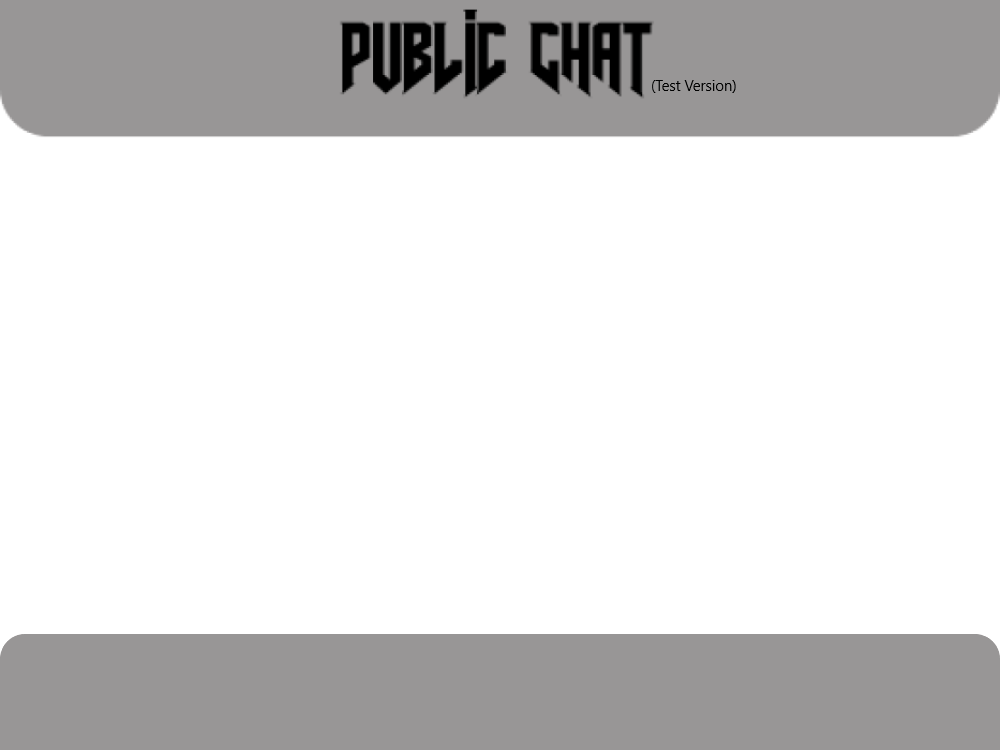
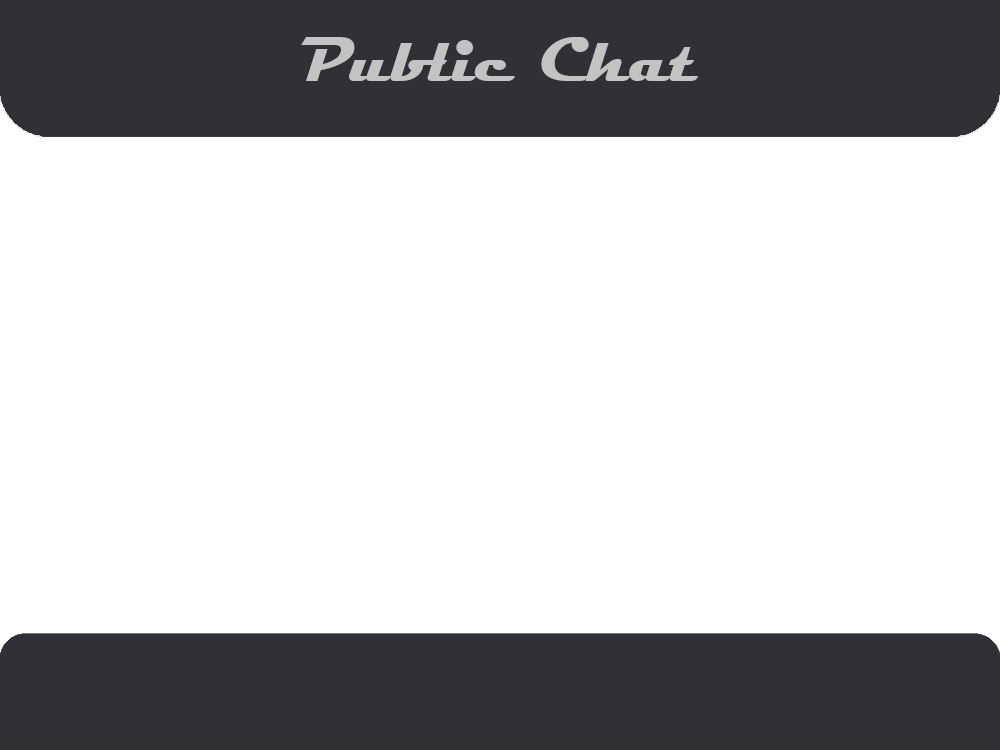
Added new UI

diff --git a/Project AME Frontend/src/main/UI.java b/Project AME Frontend/src/main/UI.java
@@ -1,5 +1,6 @@
 package main;
 
+import java.awt.Color;
 import java.awt.TextField;
 import java.awt.event.ActionEvent;
 import java.awt.event.ActionListener;
@@ -28,11 +29,11 @@ public class UI implements KeyListener{
 	TextField namefield = new TextField(name);
 	JLabel namepls = new JLabel(new ImageIcon("namepls.png"));
 	
-	JLabel settingslabel = new JLabel(new ImageIcon("settings.png"));
+	//JLabel sendlabel = new JLabel(new ImageIcon("submittexture.png"));
 	
-	JButton send = new JButton("Send");
-	JButton submit = new JButton("Submit");
-	JButton settings = new JButton("Settings");
+	JButton send = new JButton(new ImageIcon("sendtexture.png"));
+	JButton submit = new JButton(new ImageIcon("submittexture.png"));
+	//JButton settings = new JButton(new ImageIcon("settingstexture.png"));
 	
 	JScrollPane scrollpane = new JScrollPane();
 	
@@ -50,56 +51,54 @@ public class UI implements KeyListener{
 		frame.setLocationRelativeTo(null);
 		frame.setVisible(true);
 		
-		//scrollpane.setViewportView(background);
-		//.setLocation(100, 100);
 		
-		//frame.add(scrollpane);
-		//frame.setComponentZOrder(scrollpane, 1);
-		
-		settings.setBounds(830, 50, 100, 50);
-		frame.add(settings);
-		frame.setComponentZOrder(settings, 0);
-		settings.addActionListener(al1);
-		
-		frame.add(settingslabel);
-		settingslabel.setBounds(0, 0, 1000, 750);
-		frame.setComponentZOrder(settingslabel, 1);
-		settingslabel.setVisible(false);
-		
+		//sendlabel.setBounds(850, 650, 164, 97);
+		//frame.add(sendlabel);
+		//frame.setComponentZOrder(sendlabel, 0);
 		
 		submit.setBounds(450, 400, 100, 50);
 		frame.add(submit);
-		frame.setComponentZOrder(submit, 2);
+		frame.setComponentZOrder(submit, 0);
 		submit.addActionListener(al1);
 		
+		//settings.setBounds(830, 50, 100, 50);
+		//frame.add(settings);
+		//frame.setComponentZOrder(settings, 1);
+		//settings.addActionListener(al1);
+		
+		
 		frame.add(namefield);
-		frame.setComponentZOrder(namefield, 3);
+		frame.setComponentZOrder(namefield, 1);
+		namefield.setForeground(Color.white);
+		namefield.setBackground(new Color(48,49,54));
 		namefield.setBounds(375, 350, 250, 50);
 		namefield.addKeyListener(this);
 		
 		frame.add(namepls);
-		frame.setComponentZOrder(namepls, 4);
+		frame.setComponentZOrder(namepls, 2);
 		namepls.setBounds(350, 250, 300, 225);
 		
 		send.setBounds(850, 650, 100, 50);
 		frame.add(send);
-		frame.setComponentZOrder(send, 5);
+		frame.setComponentZOrder(send, 3);
 		send.addActionListener(al1);
 		
 		frame.add(textfield);
-		frame.setComponentZOrder(textfield, 6);
+		frame.setComponentZOrder(textfield, 4);
+		textfield.setForeground(Color.white);
+		textfield.setBackground(new Color(48,49,54));
 		textfield.setBounds(50, 650, 800, 50);
 		textfield.addKeyListener(this);
 		
 		
 		frame.add(layer3);
-		frame.setComponentZOrder(layer3, 7);
+		frame.setComponentZOrder(layer3, 5);
 		layer3.setBounds(0, 0, 1000, 750);
 		
 		
 		
 		frame.add(background);
-		frame.setComponentZOrder(background, 8);
+		frame.setComponentZOrder(background, 6);
 		background.setBounds(0, 0, 1000, 750);
 		
 		
@@ -143,20 +142,25 @@ public class UI implements KeyListener{
 			this.state = "default";
 		}
 		
-		if(e.getSource().equals(settings)) {
-			if(state.equals("default")) {
-				
-				settingslabel.setVisible(true);
-				state = "settings";
-			}
-			if(state.equals("settings")) {
-				
-				settingslabel.setVisible(false);
-				state = "default";
-			}
+		//if(e.getSource().equals(settings)) {
+			
+			//if(!state.equals("entername")) {
+				//if(state.equals("settings")) {
+					
+					//settingslabel.setVisible(false);
+					//state = "default";
+				//} else {
+					
+					//settingslabel.setVisible(true);
+					//state = "settings";
+					
+				//}
+			//}
 			
 			
-		}
+			
+			
+		//}
 		
 	}
 	
@@ -186,16 +190,21 @@ public class UI implements KeyListener{
 			if(contentt.length()>0 && contentt.equals("haha")) {
 				contentt = " ";
 				frame.add(emoji1);
-				frame.setComponentZOrder(emoji1, 8);
+				frame.setComponentZOrder(emoji1, 6);
 				emoji1.setBounds(250, 600, 50, 50);
 				isemoji = true;
 				this.mes = new JLabel("it's " + time + " and " +name + " says:  " + contentt);
 			} else {
 			
 			this.mes = new JLabel("it's " + time + " and " +name + " says:  " + contentt);
+			
 			}
 			frame.add(mes);
-			frame.setComponentZOrder(mes, 8);
+			//mes.setBackground(Color.white);
+			//mes.setOpaque(true);
+			mes.setForeground(Color.white);
+			
+			frame.setComponentZOrder(mes, 7);
 			this.mes.setBounds(50,600,700,50);
 			
 		}
@@ -213,6 +222,13 @@ public class UI implements KeyListener{
 	public void setDisplayName(String name) {
 		
 		namefield.setText(name);
+		
+	}
+	
+	
+	public class Settings{
+		
+		
 		
 	}
 	
